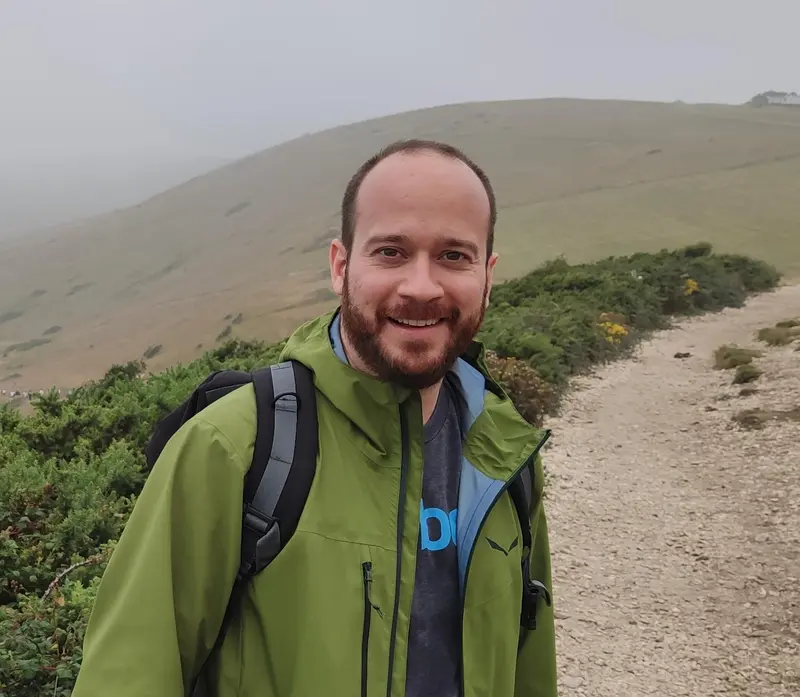
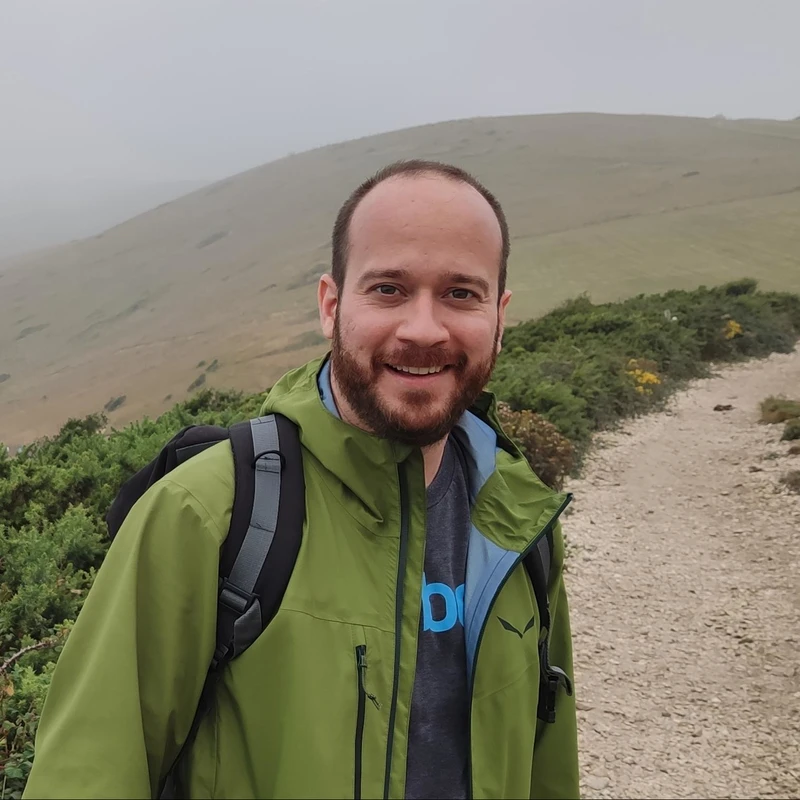
Deploying to gh-pages from @ pedropgusmao/pedropgusmao.github.io@262973d45b46c670ff57ffdbb411d178e978634f 🚀

diff --git a/2021/07/04/diagrams.html b/2021/07/04/diagrams.html
@@ -145,8 +145,8 @@ sequenceDiagram
 </code></pre></div></div>
 
 <div class="jekyll-diagrams diagrams mermaid">
-  <svg id="mermaid-1679524604318" width="100%" xmlns="http://www.w3.org/2000/svg" height="100%" style="max-width:450px;" viewbox="-50 -10 450 231"><style>#mermaid-1679524604318 .label{font-family:trebuchet ms,verdana,arial;color:#333}#mermaid-1679524604318 .node circle,#mermaid-1679524604318 .node ellipse,#mermaid-1679524604318 .node polygon,#mermaid-1679524604318 .node rect{fill:#ececff;stroke:#9370db;stroke-width:1px}#mermaid-1679524604318 .node.clickable{cursor:pointer}#mermaid-1679524604318 .arrowheadPath{fill:#333}#mermaid-1679524604318 .edgePath .path{stroke:#333;stroke-width:1.5px}#mermaid-1679524604318 .edgeLabel{background-color:#e8e8e8}#mermaid-1679524604318 .cluster rect{fill:#ffffde!important;stroke:#aa3!important;stroke-width:1px!important}#mermaid-1679524604318 .cluster text{fill:#333}#mermaid-1679524604318 div.mermaidTooltip{position:absolute;text-align:center;max-width:200px;padding:2px;font-family:trebuchet ms,verdana,arial;font-size:12px;background:#ffffde;border:1px solid #aa3;border-radius:2px;pointer-events:none;z-index:100}#mermaid-1679524604318 .actor{stroke:#ccf;fill:#ececff}#mermaid-1679524604318 text.actor{fill:#000;stroke:none}#mermaid-1679524604318 .actor-line{stroke:grey}#mermaid-1679524604318 .messageLine0{marker-end:"url(#arrowhead)"}#mermaid-1679524604318 .messageLine0,#mermaid-1679524604318 .messageLine1{stroke-width:1.5;stroke-dasharray:"2 2";stroke:#333}#mermaid-1679524604318 #arrowhead{fill:#333}#mermaid-1679524604318 #crosshead path{fill:#333!important;stroke:#333!important}#mermaid-1679524604318 .messageText{fill:#333;stroke:none}#mermaid-1679524604318 .labelBox{stroke:#ccf;fill:#ececff}#mermaid-1679524604318 .labelText,#mermaid-1679524604318 .loopText{fill:#000;stroke:none}#mermaid-1679524604318 .loopLine{stroke-width:2;stroke-dasharray:"2 2";marker-end:"url(#arrowhead)";stroke:#ccf}#mermaid-1679524604318 .note{stroke:#aa3;fill:#fff5ad}#mermaid-1679524604318 .noteText{fill:#000;stroke:none;font-family:trebuchet ms,verdana,arial;font-size:14px}#mermaid-1679524604318 .section{stroke:none;opacity:.2}#mermaid-1679524604318 .section0{fill:rgba(102,102,255,.49)}#mermaid-1679524604318 .section2{fill:#fff400}#mermaid-1679524604318 .section1,#mermaid-1679524604318 .section3{fill:#fff;opacity:.2}#mermaid-1679524604318 .sectionTitle0,#mermaid-1679524604318 .sectionTitle1,#mermaid-1679524604318 .sectionTitle2,#mermaid-1679524604318 .sectionTitle3{fill:#333}#mermaid-1679524604318 .sectionTitle{text-anchor:start;font-size:11px;text-height:14px}#mermaid-1679524604318 .grid .tick{stroke:#d3d3d3;opacity:.3;shape-rendering:crispEdges}#mermaid-1679524604318 .grid path{stroke-width:0}#mermaid-1679524604318 .today{fill:none;stroke:red;stroke-width:2px}#mermaid-1679524604318 .task{stroke-width:2}#mermaid-1679524604318 .taskText{text-anchor:middle;font-size:11px}#mermaid-1679524604318 .taskTextOutsideRight{fill:#000;text-anchor:start;font-size:11px}#mermaid-1679524604318 .taskTextOutsideLeft{fill:#000;text-anchor:end;font-size:11px}#mermaid-1679524604318 .taskText0,#mermaid-1679524604318 .taskText1,#mermaid-1679524604318 .taskText2,#mermaid-1679524604318 .taskText3{fill:#fff}#mermaid-1679524604318 .task0,#mermaid-1679524604318 .task1,#mermaid-1679524604318 .task2,#mermaid-1679524604318 .task3{fill:#8a90dd;stroke:#534fbc}#mermaid-1679524604318 .taskTextOutside0,#mermaid-1679524604318 .taskTextOutside1,#mermaid-1679524604318 .taskTextOutside2,#mermaid-1679524604318 .taskTextOutside3{fill:#000}#mermaid-1679524604318 .active0,#mermaid-1679524604318 .active1,#mermaid-1679524604318 .active2,#mermaid-1679524604318 .active3{fill:#bfc7ff;stroke:#534fbc}#mermaid-1679524604318 .activeText0,#mermaid-1679524604318 .activeText1,#mermaid-1679524604318 .activeText2,#mermaid-1679524604318 .activeText3{fill:#000!important}#mermaid-1679524604318 .done0,#mermaid-1679524604318 .done1,#mermaid-1679524604318 .done2,#mermaid-1679524604318 .done3{stroke:grey;fill:#d3d3d3;stroke-width:2}#mermaid-1679524604318 .doneText0,#mermaid-1679524604318 .doneText1,#mermaid-1679524604318 .doneText2,#mermaid-1679524604318 .doneText3{fill:#000!important}#mermaid-1679524604318 .crit0,#mermaid-1679524604318 .crit1,#mermaid-1679524604318 .crit2,#mermaid-1679524604318 .crit3{stroke:#f88;fill:red;stroke-width:2}#mermaid-1679524604318 .activeCrit0,#mermaid-1679524604318 .activeCrit1,#mermaid-1679524604318 .activeCrit2,#mermaid-1679524604318 .activeCrit3{stroke:#f88;fill:#bfc7ff;stroke-width:2}#mermaid-1679524604318 .doneCrit0,#mermaid-1679524604318 .doneCrit1,#mermaid-1679524604318 .doneCrit2,#mermaid-1679524604318 .doneCrit3{stroke:#f88;fill:#d3d3d3;stroke-width:2;cursor:pointer;shape-rendering:crispEdges}#mermaid-1679524604318 .activeCritText0,#mermaid-1679524604318 .activeCritText1,#mermaid-1679524604318 .activeCritText2,#mermaid-1679524604318 .activeCritText3,#mermaid-1679524604318 .doneCritText0,#mermaid-1679524604318 .doneCritText1,#mermaid-1679524604318 .doneCritText2,#mermaid-1679524604318 .doneCritText3{fill:#000!important}#mermaid-1679524604318 .titleText{text-anchor:middle;font-size:18px;fill:#000}#mermaid-1679524604318 g.classGroup text{fill:#9370db;stroke:none;font-family:trebuchet ms,verdana,arial;font-size:10px}#mermaid-1679524604318 g.classGroup rect{fill:#ececff;stroke:#9370db}#mermaid-1679524604318 g.classGroup line{stroke:#9370db;stroke-width:1}#mermaid-1679524604318 .classLabel .box{stroke:none;stroke-width:0;fill:#ececff;opacity:.5}#mermaid-1679524604318 .classLabel .label{fill:#9370db;font-size:10px}#mermaid-1679524604318 .relation{stroke:#9370db;stroke-width:1;fill:none}#mermaid-1679524604318 #compositionEnd,#mermaid-1679524604318 #compositionStart{fill:#9370db;stroke:#9370db;stroke-width:1}#mermaid-1679524604318 #aggregationEnd,#mermaid-1679524604318 #aggregationStart{fill:#ececff;stroke:#9370db;stroke-width:1}#mermaid-1679524604318 #dependencyEnd,#mermaid-1679524604318 #dependencyStart,#mermaid-1679524604318 #extensionEnd,#mermaid-1679524604318 #extensionStart{fill:#9370db;stroke:#9370db;stroke-width:1}#mermaid-1679524604318 .branch-label,#mermaid-1679524604318 .commit-id,#mermaid-1679524604318 .commit-msg{fill:#d3d3d3;color:#d3d3d3}</style>
-<style>#mermaid-1679524604318 {
+  <svg id="mermaid-1679528226147" width="100%" xmlns="http://www.w3.org/2000/svg" height="100%" style="max-width:450px;" viewbox="-50 -10 450 231"><style>#mermaid-1679528226147 .label{font-family:trebuchet ms,verdana,arial;color:#333}#mermaid-1679528226147 .node circle,#mermaid-1679528226147 .node ellipse,#mermaid-1679528226147 .node polygon,#mermaid-1679528226147 .node rect{fill:#ececff;stroke:#9370db;stroke-width:1px}#mermaid-1679528226147 .node.clickable{cursor:pointer}#mermaid-1679528226147 .arrowheadPath{fill:#333}#mermaid-1679528226147 .edgePath .path{stroke:#333;stroke-width:1.5px}#mermaid-1679528226147 .edgeLabel{background-color:#e8e8e8}#mermaid-1679528226147 .cluster rect{fill:#ffffde!important;stroke:#aa3!important;stroke-width:1px!important}#mermaid-1679528226147 .cluster text{fill:#333}#mermaid-1679528226147 div.mermaidTooltip{position:absolute;text-align:center;max-width:200px;padding:2px;font-family:trebuchet ms,verdana,arial;font-size:12px;background:#ffffde;border:1px solid #aa3;border-radius:2px;pointer-events:none;z-index:100}#mermaid-1679528226147 .actor{stroke:#ccf;fill:#ececff}#mermaid-1679528226147 text.actor{fill:#000;stroke:none}#mermaid-1679528226147 .actor-line{stroke:grey}#mermaid-1679528226147 .messageLine0{marker-end:"url(#arrowhead)"}#mermaid-1679528226147 .messageLine0,#mermaid-1679528226147 .messageLine1{stroke-width:1.5;stroke-dasharray:"2 2";stroke:#333}#mermaid-1679528226147 #arrowhead{fill:#333}#mermaid-1679528226147 #crosshead path{fill:#333!important;stroke:#333!important}#mermaid-1679528226147 .messageText{fill:#333;stroke:none}#mermaid-1679528226147 .labelBox{stroke:#ccf;fill:#ececff}#mermaid-1679528226147 .labelText,#mermaid-1679528226147 .loopText{fill:#000;stroke:none}#mermaid-1679528226147 .loopLine{stroke-width:2;stroke-dasharray:"2 2";marker-end:"url(#arrowhead)";stroke:#ccf}#mermaid-1679528226147 .note{stroke:#aa3;fill:#fff5ad}#mermaid-1679528226147 .noteText{fill:#000;stroke:none;font-family:trebuchet ms,verdana,arial;font-size:14px}#mermaid-1679528226147 .section{stroke:none;opacity:.2}#mermaid-1679528226147 .section0{fill:rgba(102,102,255,.49)}#mermaid-1679528226147 .section2{fill:#fff400}#mermaid-1679528226147 .section1,#mermaid-1679528226147 .section3{fill:#fff;opacity:.2}#mermaid-1679528226147 .sectionTitle0,#mermaid-1679528226147 .sectionTitle1,#mermaid-1679528226147 .sectionTitle2,#mermaid-1679528226147 .sectionTitle3{fill:#333}#mermaid-1679528226147 .sectionTitle{text-anchor:start;font-size:11px;text-height:14px}#mermaid-1679528226147 .grid .tick{stroke:#d3d3d3;opacity:.3;shape-rendering:crispEdges}#mermaid-1679528226147 .grid path{stroke-width:0}#mermaid-1679528226147 .today{fill:none;stroke:red;stroke-width:2px}#mermaid-1679528226147 .task{stroke-width:2}#mermaid-1679528226147 .taskText{text-anchor:middle;font-size:11px}#mermaid-1679528226147 .taskTextOutsideRight{fill:#000;text-anchor:start;font-size:11px}#mermaid-1679528226147 .taskTextOutsideLeft{fill:#000;text-anchor:end;font-size:11px}#mermaid-1679528226147 .taskText0,#mermaid-1679528226147 .taskText1,#mermaid-1679528226147 .taskText2,#mermaid-1679528226147 .taskText3{fill:#fff}#mermaid-1679528226147 .task0,#mermaid-1679528226147 .task1,#mermaid-1679528226147 .task2,#mermaid-1679528226147 .task3{fill:#8a90dd;stroke:#534fbc}#mermaid-1679528226147 .taskTextOutside0,#mermaid-1679528226147 .taskTextOutside1,#mermaid-1679528226147 .taskTextOutside2,#mermaid-1679528226147 .taskTextOutside3{fill:#000}#mermaid-1679528226147 .active0,#mermaid-1679528226147 .active1,#mermaid-1679528226147 .active2,#mermaid-1679528226147 .active3{fill:#bfc7ff;stroke:#534fbc}#mermaid-1679528226147 .activeText0,#mermaid-1679528226147 .activeText1,#mermaid-1679528226147 .activeText2,#mermaid-1679528226147 .activeText3{fill:#000!important}#mermaid-1679528226147 .done0,#mermaid-1679528226147 .done1,#mermaid-1679528226147 .done2,#mermaid-1679528226147 .done3{stroke:grey;fill:#d3d3d3;stroke-width:2}#mermaid-1679528226147 .doneText0,#mermaid-1679528226147 .doneText1,#mermaid-1679528226147 .doneText2,#mermaid-1679528226147 .doneText3{fill:#000!important}#mermaid-1679528226147 .crit0,#mermaid-1679528226147 .crit1,#mermaid-1679528226147 .crit2,#mermaid-1679528226147 .crit3{stroke:#f88;fill:red;stroke-width:2}#mermaid-1679528226147 .activeCrit0,#mermaid-1679528226147 .activeCrit1,#mermaid-1679528226147 .activeCrit2,#mermaid-1679528226147 .activeCrit3{stroke:#f88;fill:#bfc7ff;stroke-width:2}#mermaid-1679528226147 .doneCrit0,#mermaid-1679528226147 .doneCrit1,#mermaid-1679528226147 .doneCrit2,#mermaid-1679528226147 .doneCrit3{stroke:#f88;fill:#d3d3d3;stroke-width:2;cursor:pointer;shape-rendering:crispEdges}#mermaid-1679528226147 .activeCritText0,#mermaid-1679528226147 .activeCritText1,#mermaid-1679528226147 .activeCritText2,#mermaid-1679528226147 .activeCritText3,#mermaid-1679528226147 .doneCritText0,#mermaid-1679528226147 .doneCritText1,#mermaid-1679528226147 .doneCritText2,#mermaid-1679528226147 .doneCritText3{fill:#000!important}#mermaid-1679528226147 .titleText{text-anchor:middle;font-size:18px;fill:#000}#mermaid-1679528226147 g.classGroup text{fill:#9370db;stroke:none;font-family:trebuchet ms,verdana,arial;font-size:10px}#mermaid-1679528226147 g.classGroup rect{fill:#ececff;stroke:#9370db}#mermaid-1679528226147 g.classGroup line{stroke:#9370db;stroke-width:1}#mermaid-1679528226147 .classLabel .box{stroke:none;stroke-width:0;fill:#ececff;opacity:.5}#mermaid-1679528226147 .classLabel .label{fill:#9370db;font-size:10px}#mermaid-1679528226147 .relation{stroke:#9370db;stroke-width:1;fill:none}#mermaid-1679528226147 #compositionEnd,#mermaid-1679528226147 #compositionStart{fill:#9370db;stroke:#9370db;stroke-width:1}#mermaid-1679528226147 #aggregationEnd,#mermaid-1679528226147 #aggregationStart{fill:#ececff;stroke:#9370db;stroke-width:1}#mermaid-1679528226147 #dependencyEnd,#mermaid-1679528226147 #dependencyStart,#mermaid-1679528226147 #extensionEnd,#mermaid-1679528226147 #extensionStart{fill:#9370db;stroke:#9370db;stroke-width:1}#mermaid-1679528226147 .branch-label,#mermaid-1679528226147 .commit-id,#mermaid-1679528226147 .commit-msg{fill:#d3d3d3;color:#d3d3d3}</style>
+<style>#mermaid-1679528226147 {
     color: rgb(0, 0, 0);
     font: normal normal 400 normal 16px / normal "Times New Roman";
   }</style>

diff --git a/publications/index.html b/publications/index.html
@@ -1351,6 +1351,141 @@
   <h2 class="year">2017</h2>
   <ol class="bibliography"></ol>
 
+  <h2 class="year">2016</h2>
+  <ol class="bibliography"><li>
+<!-- _layouts/bib.html -->
+      <div class="row">
+        <div class="col-sm-2 abbr"><abbr class="badge">CoDIT</abbr></div>
+
+        <!-- Entry bib key -->
+        <div id="7593635" class="col-sm-8">
+        <!-- Title -->
+        <div class="title">Gabor filter based image representation for object classification</div>
+        <!-- Author -->
+        <div class="author">
+        
+
+        Syed Tahir Hussain Rizvi, Gianpiero Cabodi, Pedro Gusmao, and
+          <span class="more-authors" title="click to view 1 more author" onclick="
+                var element = $(this);
+                element.attr('title', '');
+                var more_authors_text = element.text() == '1 more author' ? 'Gianluca Francini' : '1 more author';
+                var cursorPosition = 0;
+                var textAdder = setInterval(function(){
+                  element.text(more_authors_text.substring(0, cursorPosition + 1));
+                  if (++cursorPosition == more_authors_text.length){
+                    clearInterval(textAdder);
+                  }
+              }, '10');
+              ">1 more author</span>
+</div>
+
+        <!-- Journal/Book title and date -->
+        
+        
+        <div class="periodical">
+          <em>In 2016 International Conference on Control, Decision and Information Technologies (CoDIT)</em>, 2016
+        </div>
+        <div class="periodical">
+          
+        </div>
+
+          <!-- Links/Buttons -->
+          <div class="links">
+            <a class="bibtex btn btn-sm z-depth-0" role="button">Bib</a>
+          </div>
+          
+          <div class="badges">
+            <span class="altmetric-embed" data-hide-no-mentions="true" data-hide-less-than="15" data-badge-type="2" data-badge-popover="right" data-doi="10.1109/CoDIT.2016.7593635"></span>
+              <span class="__dimensions_badge_embed__" data-doi="10.1109/CoDIT.2016.7593635" data-hide-zero-citations="true" data-style="small_rectangle" data-legend="hover-right" style="margin-bottom: 6px;"></span>
+          </div>
+
+          <!-- Hidden bibtex block -->
+          <div class="bibtex hidden">
+            <figure class="highlight"><pre><code class="language-bibtex" data-lang="bibtex"><span class="nc">@inproceedings</span><span class="p">{</span><span class="nl">7593635</span><span class="p">,</span>
+  <span class="na">author</span> <span class="p">=</span> <span class="s">{Rizvi, Syed Tahir Hussain and Cabodi, Gianpiero and Gusmao, Pedro and Francini, Gianluca}</span><span class="p">,</span>
+  <span class="na">booktitle</span> <span class="p">=</span> <span class="s">{2016 International Conference on Control, Decision and Information Technologies (CoDIT)}</span><span class="p">,</span>
+  <span class="na">title</span> <span class="p">=</span> <span class="s">{Gabor filter based image representation for object classification}</span><span class="p">,</span>
+  <span class="na">year</span> <span class="p">=</span> <span class="s">{2016}</span><span class="p">,</span>
+  <span class="na">volume</span> <span class="p">=</span> <span class="s">{}</span><span class="p">,</span>
+  <span class="na">number</span> <span class="p">=</span> <span class="s">{}</span><span class="p">,</span>
+  <span class="na">pages</span> <span class="p">=</span> <span class="s">{628-632}</span><span class="p">,</span>
+  <span class="na">doi</span> <span class="p">=</span> <span class="s">{10.1109/CoDIT.2016.7593635}</span>
+<span class="p">}</span></code></pre></figure>
+          </div>
+        </div>
+      </div>
+</li></ol>
+
+  <h2 class="year">2015</h2>
+  <ol class="bibliography"><li>
+<!-- _layouts/bib.html -->
+      <div class="row">
+        <div class="col-sm-2 abbr"></div>
+
+        <!-- Entry bib key -->
+        <div id="7340871" class="col-sm-8">
+        <!-- Title -->
+        <div class="title">Loop detection in robotic navigation using MPEG CDVS</div>
+        <!-- Author -->
+        <div class="author">
+        
+
+        Pedro P. B. Gusmao, Stefano Rosa, Enrico Magli, and
+          <span class="more-authors" title="click to view 2 more authors" onclick="
+                var element = $(this);
+                element.attr('title', '');
+                var more_authors_text = element.text() == '2 more authors' ? 'Skjalg Lepsøy, Gianluca Francini' : '2 more authors';
+                var cursorPosition = 0;
+                var textAdder = setInterval(function(){
+                  element.text(more_authors_text.substring(0, cursorPosition + 1));
+                  if (++cursorPosition == more_authors_text.length){
+                    clearInterval(textAdder);
+                  }
+              }, '10');
+              ">2 more authors</span>
+</div>
+
+        <!-- Journal/Book title and date -->
+        
+        
+        <div class="periodical">
+          <em>In 2015 IEEE 17th International Workshop on Multimedia Signal Processing (MMSP)</em>, 2015
+        </div>
+        <div class="periodical">
+          
+        </div>
+
+          <!-- Links/Buttons -->
+          <div class="links">
+            <a class="bibtex btn btn-sm z-depth-0" role="button">Bib</a>
+          </div>
+          
+          <div class="badges">
+            <span class="altmetric-embed" data-hide-no-mentions="true" data-hide-less-than="15" data-badge-type="2" data-badge-popover="right" data-doi="10.1109/MMSP.2015.7340871"></span>
+              <span class="__dimensions_badge_embed__" data-doi="10.1109/MMSP.2015.7340871" data-hide-zero-citations="true" data-style="small_rectangle" data-legend="hover-right" style="margin-bottom: 6px;"></span>
+          </div>
+
+          <!-- Hidden bibtex block -->
+          <div class="bibtex hidden">
+            <figure class="highlight"><pre><code class="language-bibtex" data-lang="bibtex"><span class="nc">@inproceedings</span><span class="p">{</span><span class="nl">7340871</span><span class="p">,</span>
+  <span class="na">author</span> <span class="p">=</span> <span class="s">{de Gusmao, Pedro P. B. and Rosa, Stefano and Magli, Enrico and Lepsøy, Skjalg and Francini, Gianluca}</span><span class="p">,</span>
+  <span class="na">booktitle</span> <span class="p">=</span> <span class="s">{2015 IEEE 17th International Workshop on Multimedia Signal Processing (MMSP)}</span><span class="p">,</span>
+  <span class="na">title</span> <span class="p">=</span> <span class="s">{Loop detection in robotic navigation using MPEG CDVS}</span><span class="p">,</span>
+  <span class="na">year</span> <span class="p">=</span> <span class="s">{2015}</span><span class="p">,</span>
+  <span class="na">volume</span> <span class="p">=</span> <span class="s">{}</span><span class="p">,</span>
+  <span class="na">number</span> <span class="p">=</span> <span class="s">{}</span><span class="p">,</span>
+  <span class="na">pages</span> <span class="p">=</span> <span class="s">{1-6}</span><span class="p">,</span>
+  <span class="na">doi</span> <span class="p">=</span> <span class="s">{10.1109/MMSP.2015.7340871}</span>
+<span class="p">}</span></code></pre></figure>
+          </div>
+        </div>
+      </div>
+</li></ol>
+
+  <h2 class="year">2014</h2>
+  <ol class="bibliography"></ol>
+
 
 </div>
 

diff --git a/index.html b/index.html
@@ -128,14 +128,25 @@
     
 
     <!-- Fallback to the original file -->
-    <img src="/assets/img/pedro.jpg" class="img-fluid z-depth-1 rounded" width="auto" height="auto" alt="pedro.jpg" onerror="this.onerror=null; $('.responsive-img-srcset').remove();">
+    <img src="/assets/img/pedro.jpg" class="img-fluid z-depth-1 rounded-circle" width="auto" height="auto" alt="pedro.jpg" onerror="this.onerror=null; $('.responsive-img-srcset').remove();">
 
   </picture>
 
 </figure>
+<div class="contact-icons" style="text-align:center;">
+        <a href="mailto:%70%65%64%72%6F@%70%6F%72%74%6F%62%67%75%73%6D%61%6F.%63%6F%6D" title="email"><i class="fas fa-envelope"></i></a>
+            <a href="https://orcid.org/0000-0002-7072-9898" title="ORCID" rel="external nofollow noopener" target="_blank"><i class="ai ai-orcid"></i></a>
+            <a href="https://scholar.google.com/citations?user=TfdVttMAAAAJ" title="Google Scholar" rel="external nofollow noopener" target="_blank"><i class="ai ai-google-scholar"></i></a>
+            <a href="https://github.com/pedropgusmao" title="GitHub" rel="external nofollow noopener" target="_blank"><i class="fab fa-github"></i></a>
+            <a href="https://www.linkedin.com/in/pedropgusmao" title="LinkedIn" rel="external nofollow noopener" target="_blank"><i class="fab fa-linkedin"></i></a>
+            <a href="https://twitter.com/pedropbg" title="Twitter" rel="external nofollow noopener" target="_blank"><i class="fab fa-twitter"></i></a>
+            <a href="https://www.cst.cam.ac.uk/people/pp524" title="Work" rel="external nofollow noopener" target="_blank"><i class="fas fa-briefcase"></i></a>
+            <a href="/feed.xml" title="RSS Feed"><i class="fas fa-rss-square"></i></a>
+            
 
+      </div>
+      
     </div>
-
     <div class="clearfix">
       <p>I’m a Senior Research Associate at the <a href="https://mlsys.cst.cam.ac.uk/" rel="external nofollow noopener" target="_blank">Cambridge Machine Learning Systems Lab</a>. My research interests include Computer Vision, Navigation under adverse conditions, Sensor Fusion, and Distributed Machine Learning.</p>
 
@@ -379,11 +390,11 @@
       <div class="contact-icons">
         <a href="mailto:%70%65%64%72%6F@%70%6F%72%74%6F%62%67%75%73%6D%61%6F.%63%6F%6D" title="email"><i class="fas fa-envelope"></i></a>
             <a href="https://orcid.org/0000-0002-7072-9898" title="ORCID" rel="external nofollow noopener" target="_blank"><i class="ai ai-orcid"></i></a>
+            <a href="https://scholar.google.com/citations?user=TfdVttMAAAAJ" title="Google Scholar" rel="external nofollow noopener" target="_blank"><i class="ai ai-google-scholar"></i></a>
             <a href="https://github.com/pedropgusmao" title="GitHub" rel="external nofollow noopener" target="_blank"><i class="fab fa-github"></i></a>
             <a href="https://www.linkedin.com/in/pedropgusmao" title="LinkedIn" rel="external nofollow noopener" target="_blank"><i class="fab fa-linkedin"></i></a>
             <a href="https://twitter.com/pedropbg" title="Twitter" rel="external nofollow noopener" target="_blank"><i class="fab fa-twitter"></i></a>
             <a href="https://www.cst.cam.ac.uk/people/pp524" title="Work" rel="external nofollow noopener" target="_blank"><i class="fas fa-briefcase"></i></a>
-            <a href="https://gitlab.com/pedropgusmao" title="GitLab" rel="external nofollow noopener" target="_blank"><i class="fab fa-gitlab"></i></a>
             <a href="/feed.xml" title="RSS Feed"><i class="fas fa-rss-square"></i></a>
             
 

diff --git a/assets/css/main.css b/assets/css/main.css
@@ -10,13 +10,13 @@
   --global-code-bg-color: rgba(181, 9, 172, 0.05);
   --global-text-color: #000000;
   --global-text-color-light: #828282;
-  --global-theme-color: #B509AC;
-  --global-hover-color: #B509AC;
+  --global-theme-color: #8a1538;
+  --global-hover-color: #8a1538;
   --global-footer-bg-color: #1C1C1D;
   --global-footer-text-color: #e8e8e8;
   --global-footer-link-color: #ffffff;
   --global-distill-app-color: #828282;
-  --global-divider-color: rgba(0,0,0,.1);
+  --global-divider-color: rgba(0, 0, 0, .1);
   --global-card-bg-color: #ffffff;
 }
 :root .fa-sun {
@@ -337,7 +337,7 @@ blockquote {
   text-align: center;
 }
 .social .contact-icons {
-  font-size: 4rem;
+  font-size: 2.5rem;
 }
 .social .contact-icons a i::before {
   color: var(--global-text-color);
